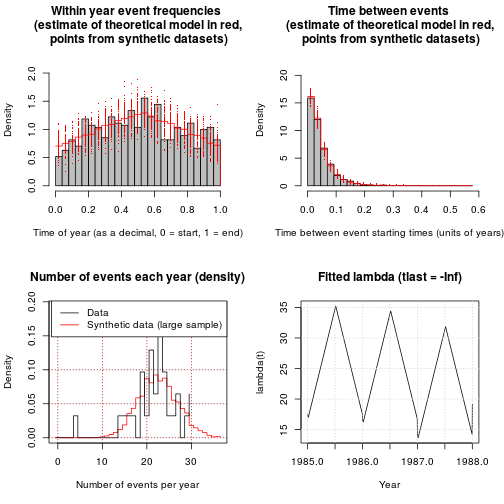
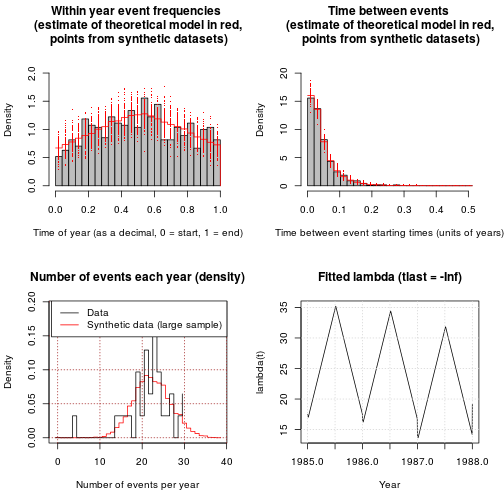
new

diff --git a/Analysis/statistical_model_fit/statistical_model_storm_timings.md b/Analysis/statistical_model_fit/statistical_model_storm_timings.md
@@ -33,11 +33,11 @@ with the `knit` command in the *knitr* package:
 
 ```r
 library(knitr)
-knit('statistical_model.Rmd')
+knit('statistical_model_storm_timings.Rmd')
 ```
 
 The basic approach followed here is to:
-* **Step 1: Get the preprocessed data and address rounding artefacts**
+* **Step 1: Get the preprocessed data and optionally break ties in the data**
 * **Step 2: Compute the wave steepness**
 * **Step 3: Exploration of the annual number of storms**
 * **Step 4: Modelling the storm event timings as a non-homogeneous Poisson process**
@@ -45,7 +45,7 @@ The basic approach followed here is to:
 Later we will use the statistical model to simulate synthetic storm event
 time-series.
 
-# **Step 1: Get the preprocessed data and address rounding artefacts**
+# **Step 1: Get the preprocessed data and optionally break ties in the data**
 ----------------------------------------------------------------------
 
 
@@ -268,7 +268,7 @@ empirical_distribution(sample_var)
 ```
 
 ```
-## [1] 0.1553
+## [1] 0.1471
 ```
 
 ```r
@@ -842,14 +842,21 @@ ranking of the model here however, because the sample size is large enough for
 the correction to be small.
 
 ```r
-# AIC for every model in the 'exhaustive' simulation
+# corrected AIC for every model trialled above 
 exhaustive_AICs =  unlist(lapply(exhaustive_lambda_model_fits, 
     f<-function(x) nhp$compute_fit_AIC_BIC(x, correct_AIC=TRUE)$AIC))
 
-# Choose best = min AIC 
+# Choose most parsimonious (i.e. model having min AIC)
 best_nhp_model = exhaustive_lambda_model_fits[[which.min(exhaustive_AICs)]]
+# What is the equation of the best model?
+print(best_nhp_model$rate_equation)
+```
 
+```
+## [1] "theta[1] + theta[2]*CI_annual_fun$soi(floor((t - 1985)%%31 + 1985))+theta[2 + 1]*abs(2/pi*asin(cos(pi*(t-theta[2+2]))))+0"
+```
 
+```r
 # Get lambda function from the best fit
 lambda = nhp$get_lambda_function(
     best_nhp_model$par, 
@@ -883,14 +890,14 @@ nhp$plot_nhpoisson_diagnostics(event_time[bulk_fit_indices],
 ```
 ## [1] "KS TEST OF THE EVENTS TIME-OF-YEAR"
 ## $ks.boot.pvalue
-## [1] 0.86
+## [1] 0.848
 ## 
 ## $ks
 ## 
 ## 	Two-sample Kolmogorov-Smirnov test
 ## 
 ## data:  Tr and Co
-## D = 0.023084, p-value = 0.8685
+## D = 0.023275, p-value = 0.862
 ## alternative hypothesis: two-sided
 ## 
 ## 
@@ -904,14 +911,14 @@ nhp$plot_nhpoisson_diagnostics(event_time[bulk_fit_indices],
 ```
 ## [1] "KS TEST OF THE TIME BETWEEN EVENTS"
 ## $ks.boot.pvalue
-## [1] 0.777
+## [1] 0.833
 ## 
 ## $ks
 ## 
 ## 	Two-sample Kolmogorov-Smirnov test
 ## 
 ## data:  Tr and Co
-## D = 0.025496, p-value = 0.7785
+## D = 0.023536, p-value = 0.8535
 ## alternative hypothesis: two-sided
 ## 
 ## 
@@ -922,14 +929,14 @@ nhp$plot_nhpoisson_diagnostics(event_time[bulk_fit_indices],
 ## [1] "ks.boot"
 ## [1] "KS TEST OF THE NUMBER OF EVENTS EACH YEAR"
 ## $ks.boot.pvalue
-## [1] 0.742
+## [1] 0.792
 ## 
 ## $ks
 ## 
 ## 	Two-sample Kolmogorov-Smirnov test
 ## 
 ## data:  Tr and Co
-## D = 0.095054, p-value = 0.9444
+## D = 0.087439, p-value = 0.9731
 ## alternative hypothesis: two-sided
 ## 
 ## 
